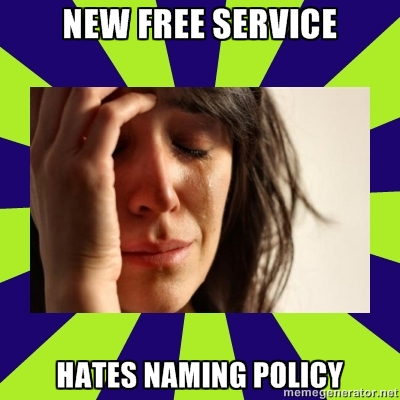
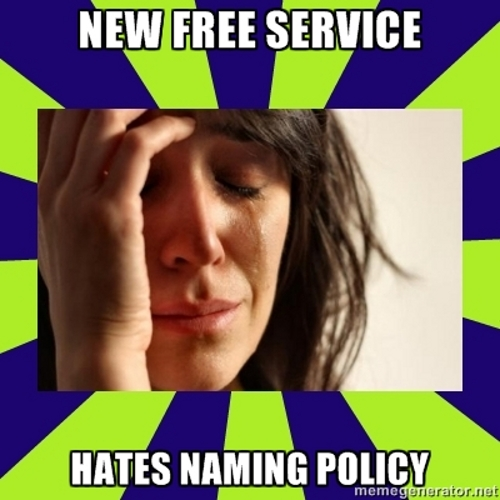
Bump

diff --git a/nymwars.html b/nymwars.html
@@ -208,7 +208,7 @@
             
             
             <section><ul>
-<li>Google+ launched INSERT DATE</li>
+<li>Google+ launched June 2011</li>
 <li>enforced strict "real name" policies</li>
 <li>"fake name" accounts were banned/locked</li>
 </ul></section>
@@ -244,8 +244,8 @@
         <div class="slide">
           <div class="inner">
             
-            <header><h1>crypicture</h1></header>
             
+            <section><p><img alt="firstworldcry" src="images/firstworldcry.jpg" /></p></section>
             
           </div>
           <div class="presenter_notes">
@@ -281,7 +281,7 @@
             <header><h1>Facebookhipsterpicture</h1></header>
             
             
-            <section><p>I hated pseudonyms before it was cool</p></section>
+            <section><p>"I hated pseudonyms before it was cool"</p></section>
             
           </div>
           <div class="presenter_notes">
@@ -351,7 +351,7 @@
             <header><h1>Define "name"</h1></header>
             
             
-            <section><p>A name is a sorta-unique identifier for entities and objects aimed at being pronouncable and memorizeable by humans.</p></section>
+            <section><p>"A name is a sorta-unique identifier for entities and objects aimed at being pronouncable and memorizeable by humans."</p></section>
             
           </div>
           <div class="presenter_notes">
@@ -458,7 +458,7 @@
       
       
       <tr id="toc-row-6">
-        <th><a href="#slide6">crypicture</a></th>
+        <th><a href="#slide6">-</a></th>
         <td><a href="#slide6">6</a></td>
       </tr>
       
